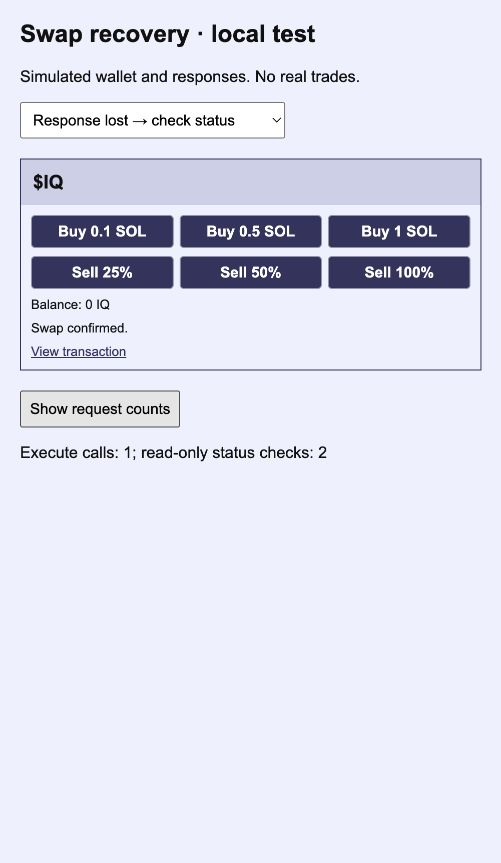
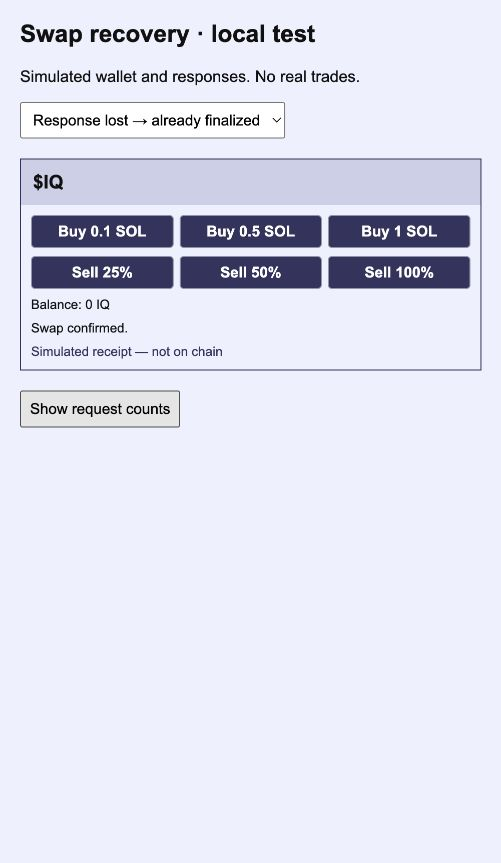
test(swap): verify pending UI prevents duplicate execution

diff --git a/tests/solana-trade.test.tsx b/tests/solana-trade.test.tsx
@@ -154,6 +154,35 @@ test("native trades expire before signing, discard stale wallet quotes and never
         expect(document.body.textContent).toContain("Pay 2251799813.685248 QA");
         expect(signs).toBe(1);
         expect(executes).toBe(0);
+        await click("Cancel");
+        Date.now = originalNow;
+        let statusReads = 0;
+        connection.getSignatureStatuses = async () => ({
+            context: { slot: 1 },
+            value: [++statusReads === 1 ? null : {
+                slot: 1, confirmations: null, confirmationStatus: "finalized", err: null,
+            }],
+        });
+        const signingWallet = { ...wallet, signTransaction: async (t: VersionedTransaction) => {
+            t.signatures[0].fill(1); // local receipt fixture; never broadcast
+            return t;
+        } } as unknown as WalletContextState;
+        globalThis.fetch = (async (url: unknown) => {
+            if (String(url).includes("/execute")) { executes++; throw Error("Lost response"); }
+            return Response.json(order);
+        }) as unknown as typeof fetch;
+        await act(async () => root.render(render(signingWallet)));
+        await click("Buy 0.1 SOL");
+        await click("Confirm in wallet");
+        expect(document.body.textContent).toContain("Still awaiting confirmation");
+        expect([...document.querySelectorAll("button")].filter(b => /^(Buy|Sell)/.test(b.textContent!)).every(b => b.disabled)).toBe(true);
+        expect(document.body.textContent).toContain("View transaction");
+        expect(document.body.textContent).not.toContain("View confirmed swap");
+        await click("Check status");
+        expect(document.body.textContent).toContain("Swap confirmed.");
+        expect(executes).toBe(1);
+        expect(statusReads).toBe(2);
+        expect([...document.querySelectorAll("button")].find(b => b.textContent === "Buy 0.1 SOL")!.disabled).toBe(false);
     } finally {
         timeoutSpy.mockRestore();
         Date.now = originalNow;

diff --git a/docs/qa/swap-recovery/README.md b/docs/qa/swap-recovery/README.md
@@ -5,7 +5,7 @@ Base: upstream e6d060997808fc92143675d96d373833ba6704ea, after PR #18 merge.
 The production catch replaced every execution exception with "Swap status is uncertain", even before the HTTP request. The local change preserves validation and documented Jupiter rejection errors, keeps a transaction receipt where available, checks ambiguous submissions with getSignatureStatuses, and disables new trades in this mounted card while unresolved. Check status only reads; it never signs or executes again. Receipt links say "View transaction", not "confirmed" for unknown transactions. The order's lastValidBlockHeight is forwarded when supplied.
 
 Validation:
-- 37 client/library tests, 231 assertions pass; 11 server tests, 160 assertions pass.
+- 37 client/library tests, 239 assertions pass; 11 server tests, 160 assertions pass.
 - TypeScript and Next production build pass.
 - Browser clicks with a simulated wallet and intercepted transport: expired quote rejection; lost execution response with pending status; manual read-only recovery to finalized. One execute and two status reads. Screenshots attached.
 - Fresh production 0.1 SOL quote returned HTTP 200 via Metis; the user-approved production attempt reproduced the generic error. No execution response was captured, so the original cause is not yet established.
